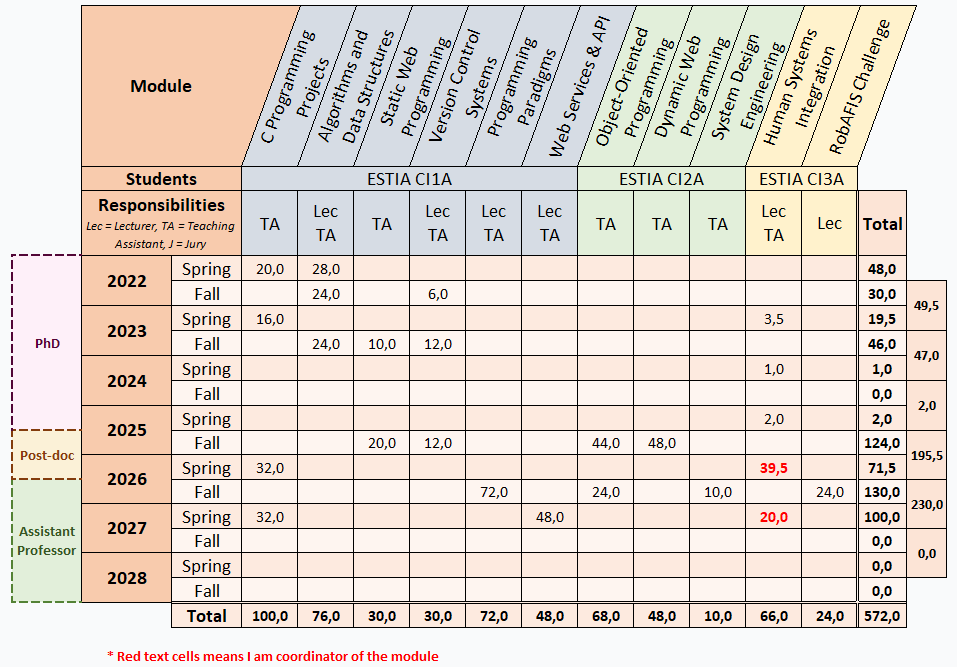
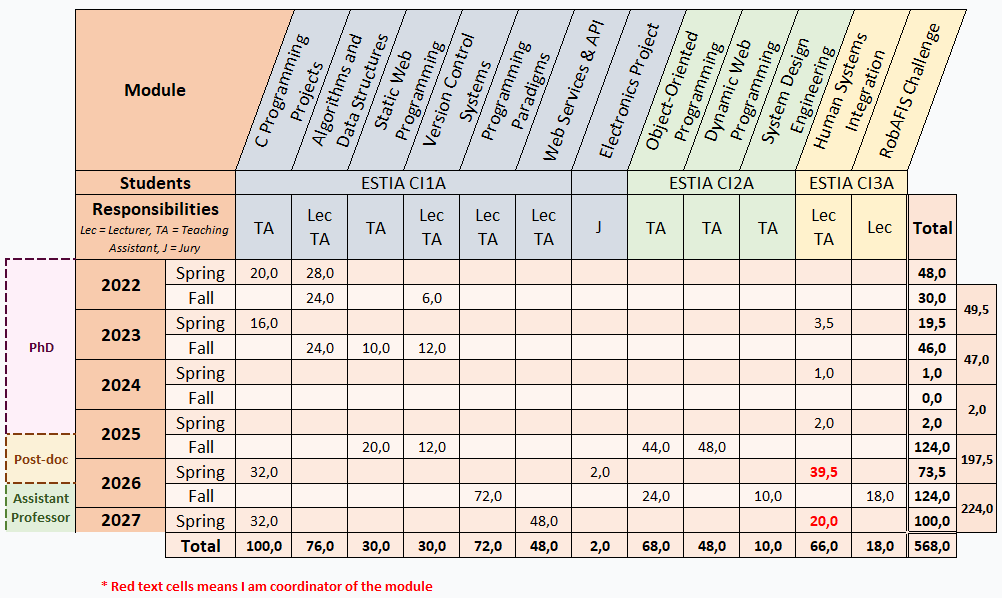
.

diff --git a/index.html b/index.html
@@ -14,7 +14,7 @@
                 <h1 class="title">Alexandre Disdier</h1>
 
                 <p class="header-info">
-                Post-doctoral researcher in Computer Science and Systems Engineering<br><br>
+                Assistant Professor in Computer Science and Systems Engineering<br><br>
 
                 <a href="https://www.estia.fr/">ESTIA Institute of Technology</a>, Technopole Izarbel, 90 Allée Fauste d’Elhuyar, 64210 Bidart, France<br><br>
 
@@ -62,7 +62,10 @@
             <div class="tab-content active" id="about">
                 <h2>About</h2>
                 <p>
-                I am currently a post-doctoral researcher within the <a href="https://www.flextechchair.org">FlexTech chair</a> and study Human-Systems Integration (HSI) approaches and techniques in the development of complex sociotechnical systems. I obtained my Ph.D. from the Industrial Engineering Laboratory (LGI) at CentraleSupélec and the ESTIA-Recherche laboratory. My PhD program was funded by the CS Research Lab from CS GROUP (A Sopra Steria Company) and was concerned with contextual modeling of military air traffic control operations.
+                I am currently an assistant professor at <a href="https://www.estia.fr/">ESTIA</a> and a researcher within the <a href="https://www.flextechchair.org">FlexTech chair</a>. I study Human-Systems Integration (HSI) approaches and techniques in the development of complex sociotechnical systems, with a particular interest in the representation and visualization aspects of complex systems modeling. 
+                <br>
+                <br>
+                I obtained my Ph.D. from the Industrial Engineering Laboratory (LGI) at CentraleSupélec and Paris Saclay University. My PhD program was funded by the CS Research Lab from CS GROUP (A Sopra Steria Company) and was concerned with contextual modeling of complex sociotechnical systems, using the case study of military air traffic control operations. 
                 <br>
                 <br>
                 I hold an engineering degree from ENSEIRB-MATMECA (Ecole nationale supérieure d’électronique, informatique, télécommunications, mathématique et mécanique de Bordeaux) in computer science with a specialization in High Performance Computing and Data Science. 
